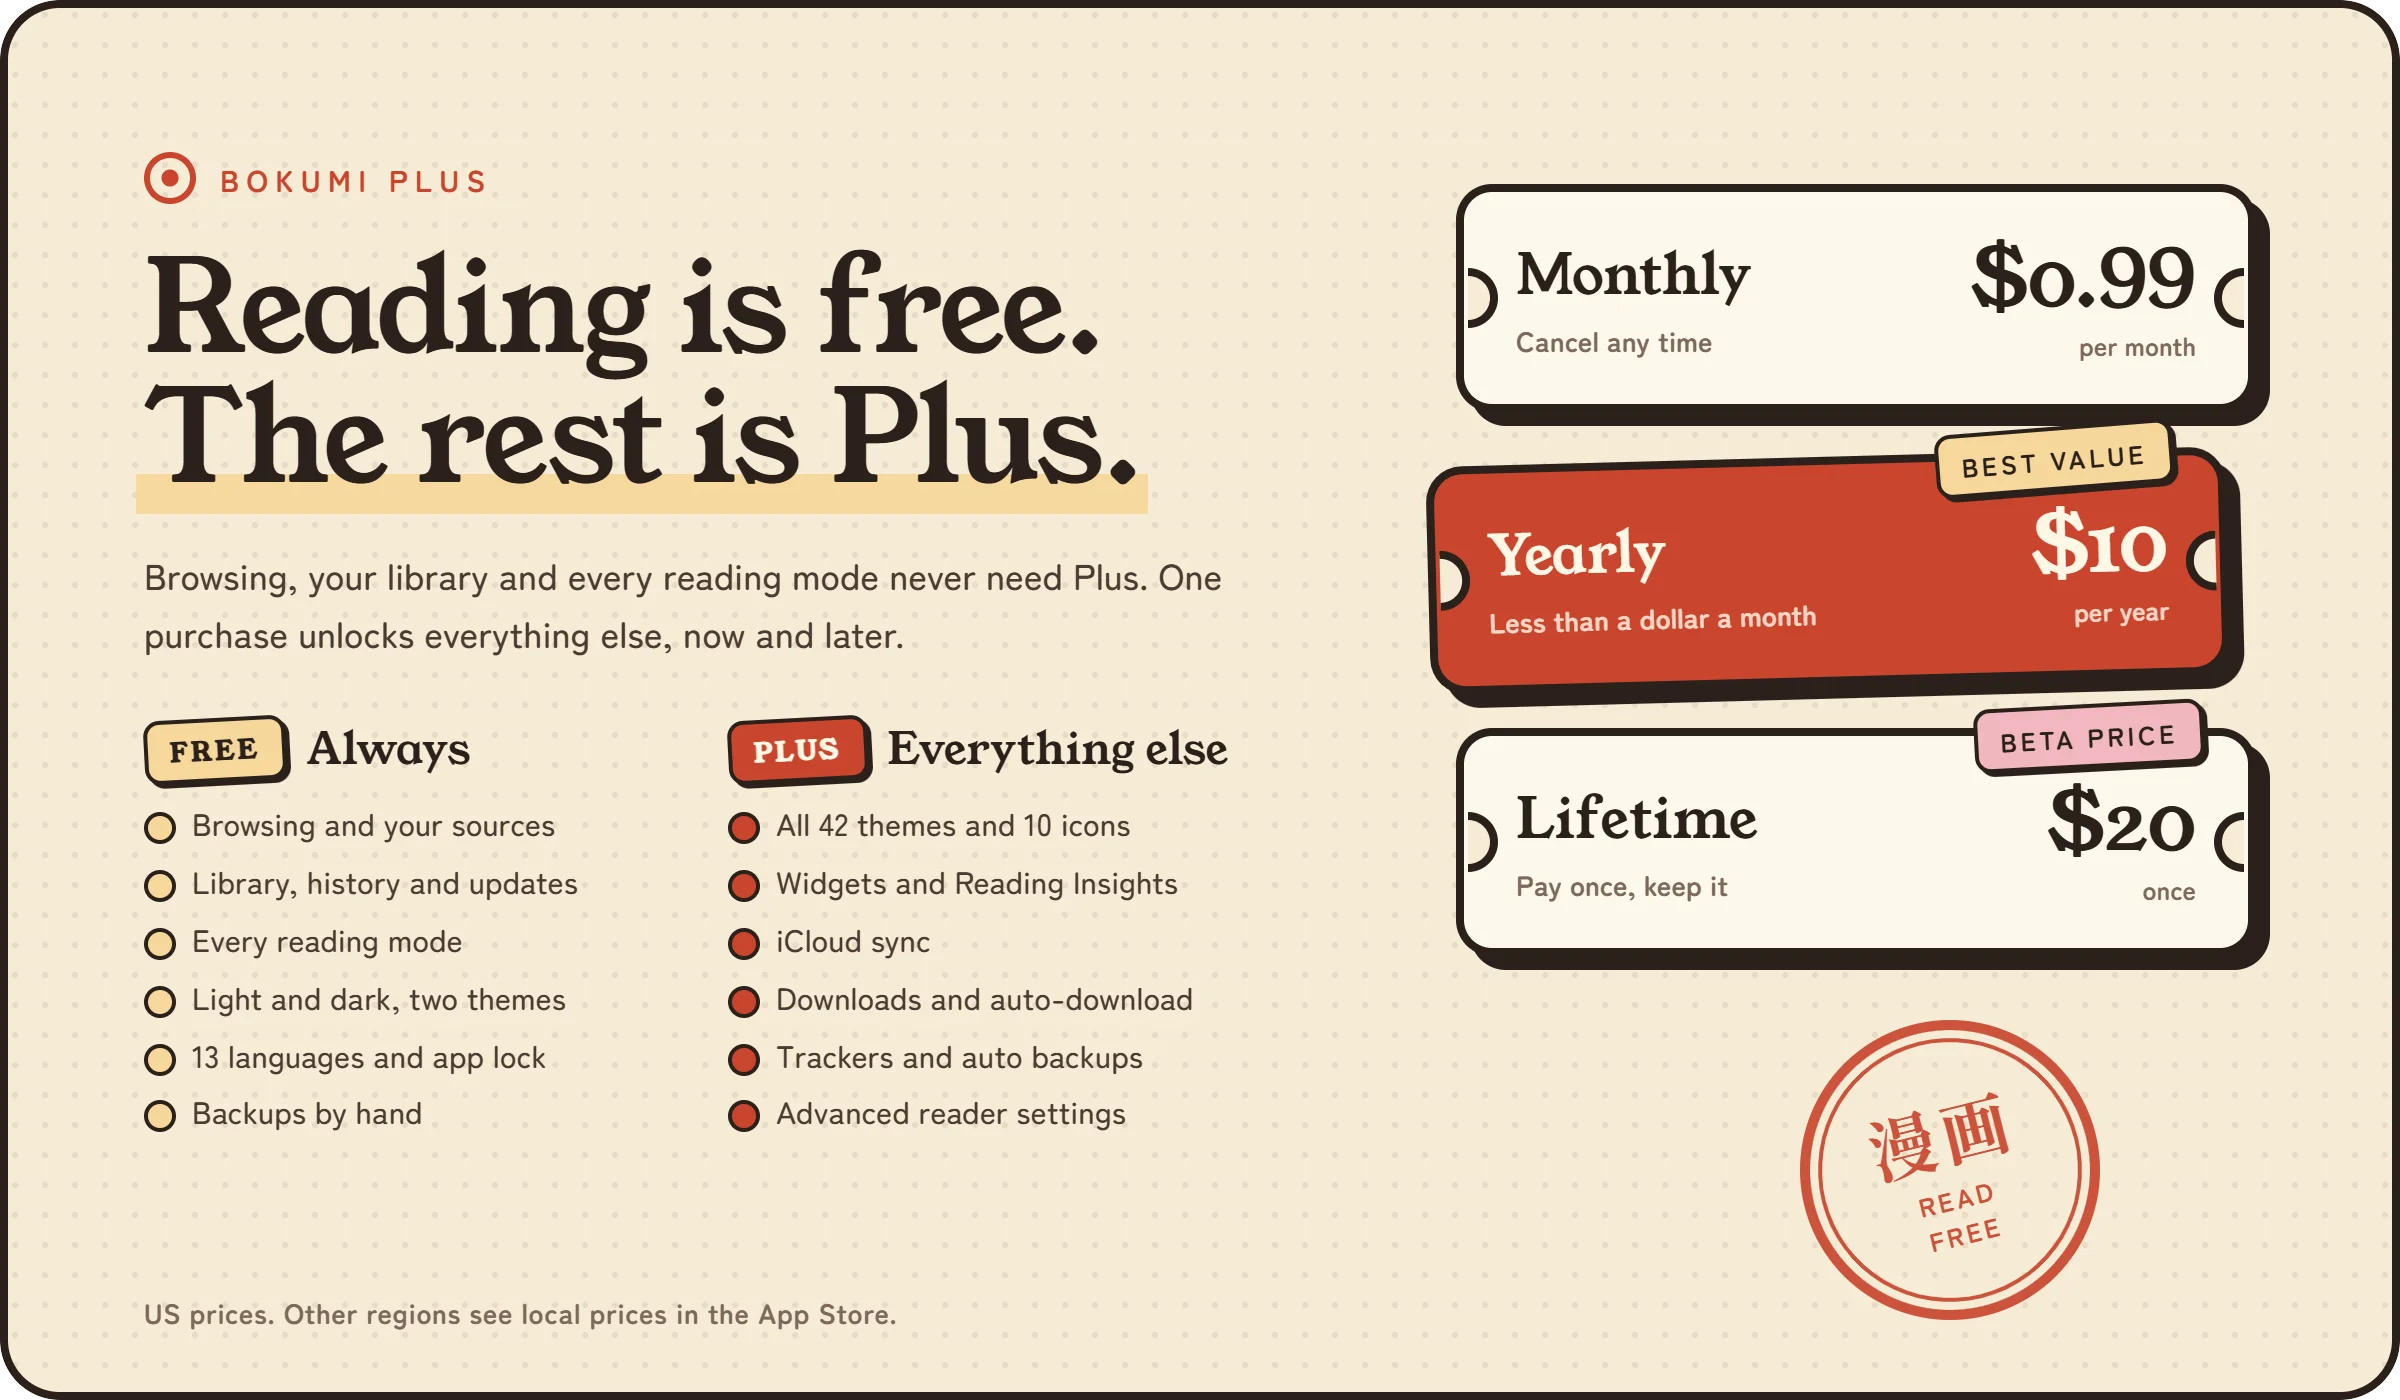
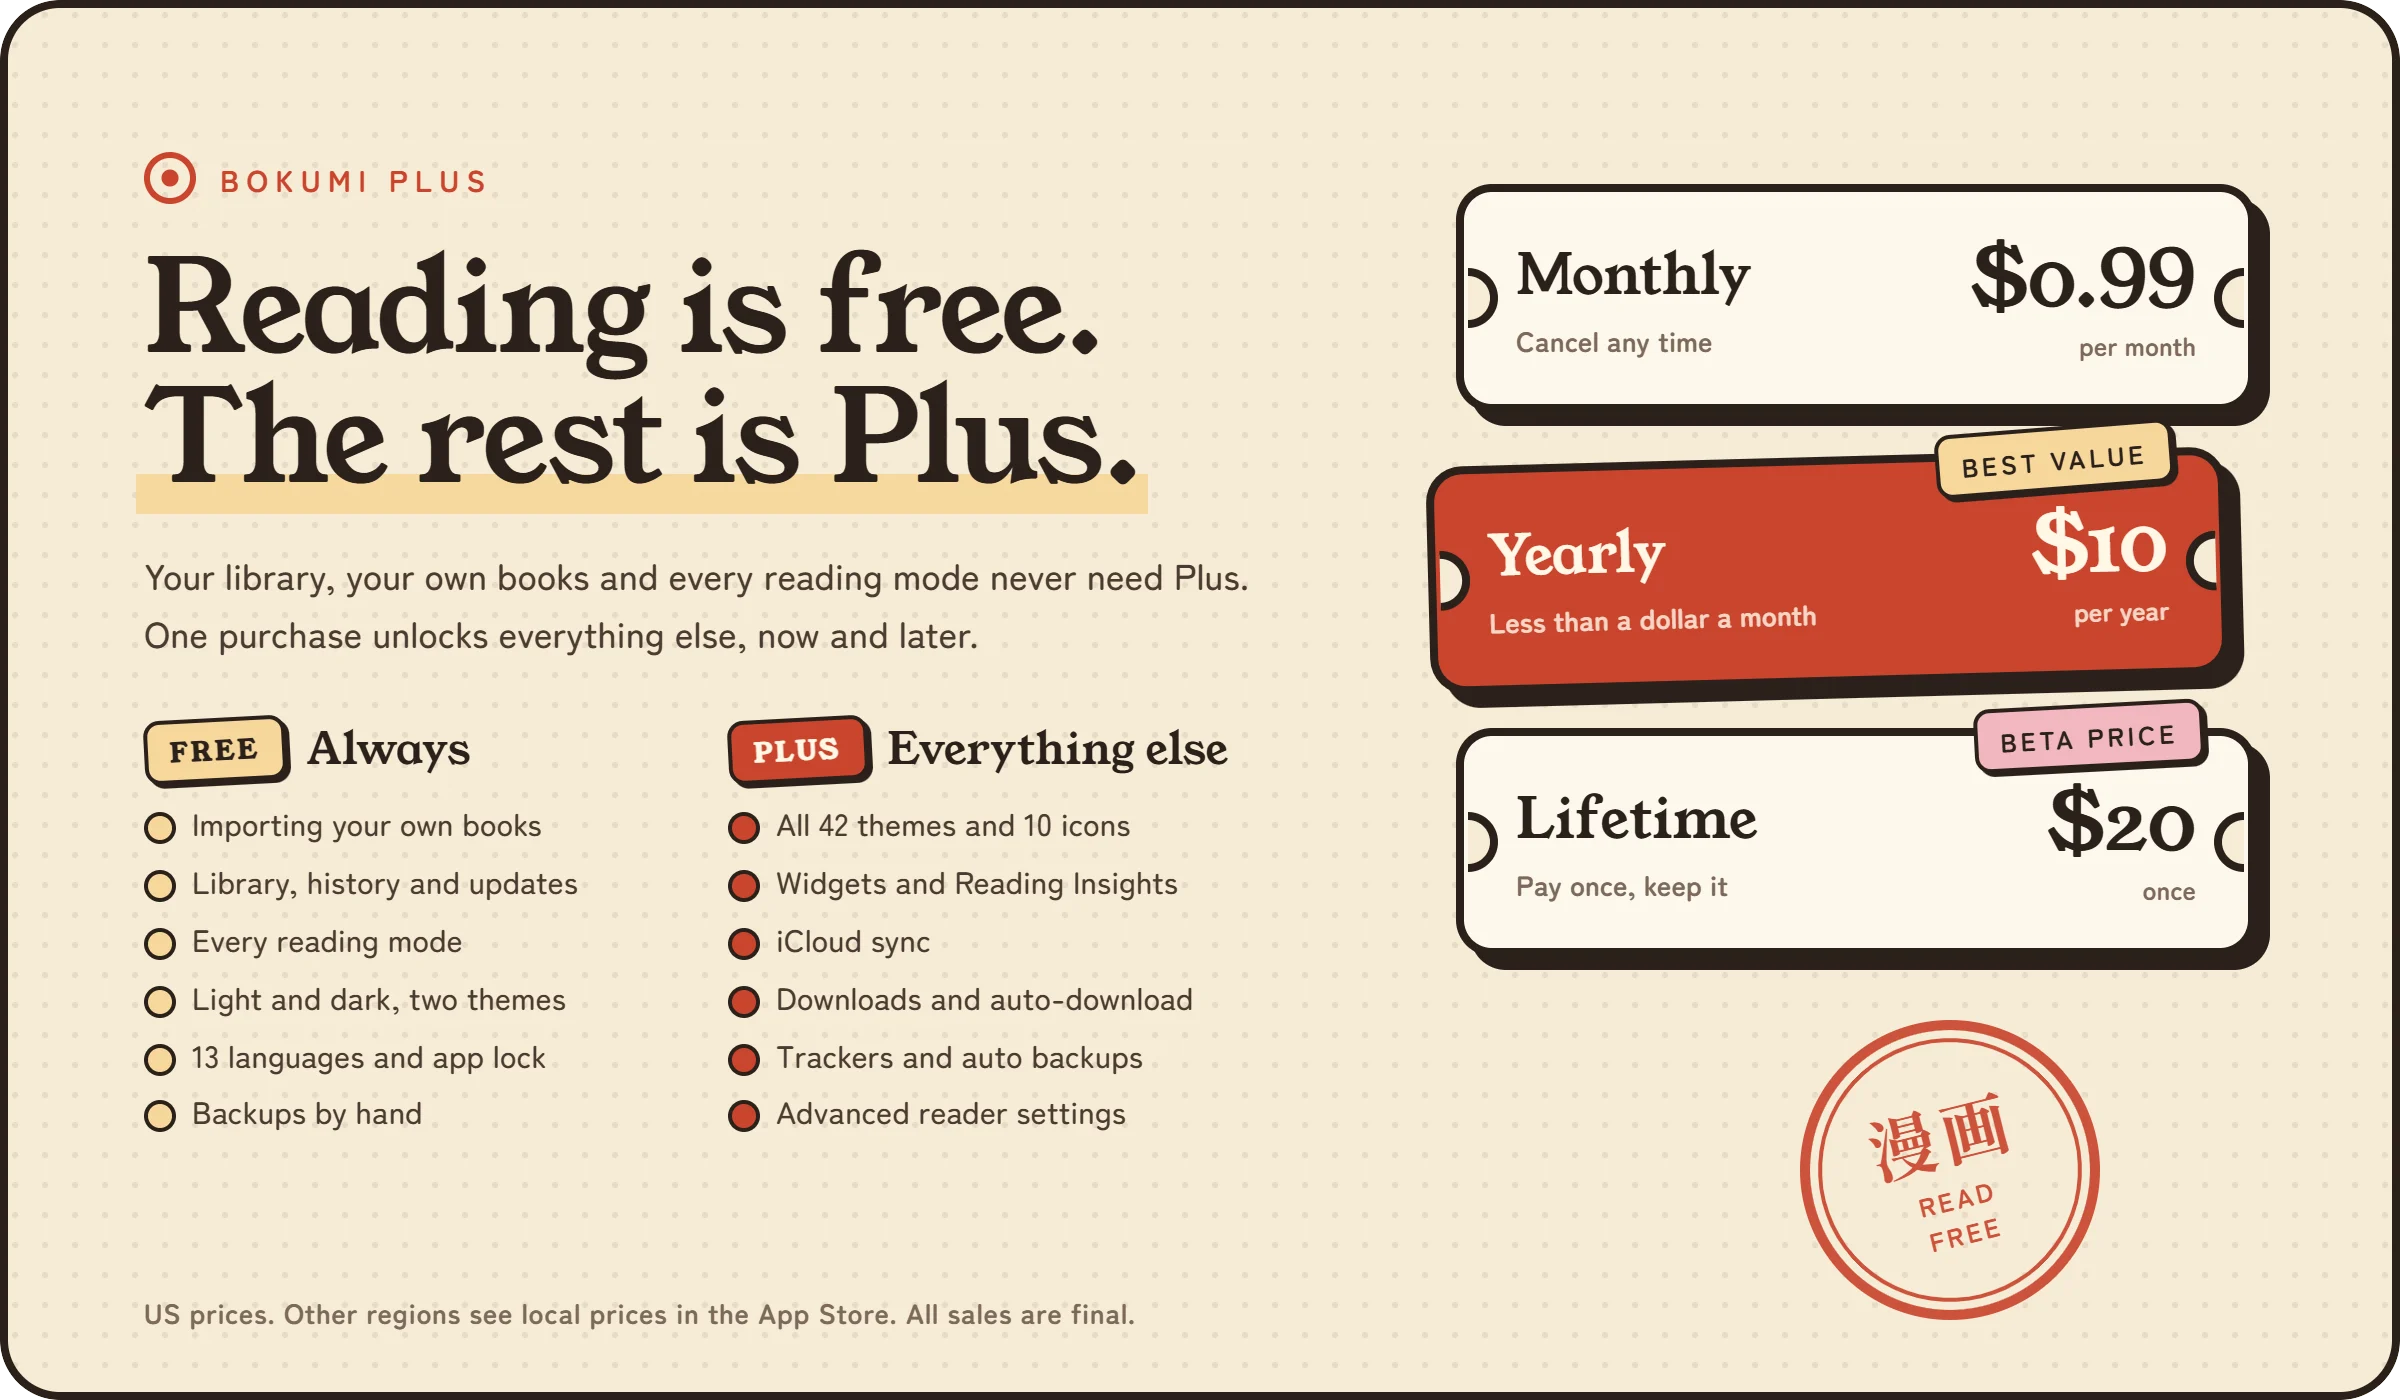
README: coming soon to iPhone, iPad and Android, with no APK download
The Android button and Releases links are gone, and both platforms read as
coming soon. The README also picks up the new art (bring your own books,
the fixed panels card, Plus with all sales final), drops other apps' names
and the trackers the iPhone app no longer has, and PRIVACY.md now
describes iCloud sync instead of a sync server.

Changed region(s): [[0.0625, 0.3993, 0.5312, 0.4607], [0.0938, 0.5836, 0.2188, 0.6143], [0.375, 0.9214, 0.4688, 0.9521]]

diff --git a/README.md b/README.md
@@ -5,16 +5,16 @@
 <p align="center">
   <img src=".github/readme/btn-appstore.png" height="58" alt="Coming soon to the App Store (iPhone, iPad, Mac)">
   &nbsp;
-  <a href="https://github.com/devCaspian-hash/Bokumi-App/releases/latest"><img src=".github/readme/btn-android.png" height="58" alt="Android developer preview: download the APK"></a>
+  <img src=".github/readme/btn-android.png" height="58" alt="Coming soon to Android">
 </p>
 
-<p align="center"><sub><b>In beta on TestFlight</b> · iOS 18 or later · reading is free · no ads · no analytics · no account</sub></p>
+<p align="center"><sub><b>Coming soon to iPhone, iPad and Android</b> · reading is free · no ads · no analytics · no account</sub></p>
 
 <p align="center"><img src=".github/readme/ticker.webp" width="100%" alt="Page-curl turns · Right to left · Webtoon · 42 themes · Widgets · iCloud sync · iPad & Mac"></p>
 
 <h3 align="center">A manga reader that treats the page like paper.</h3>
 
-<p align="center">Bokumi (ボクミ) is a cozy, premium reader for iPhone, iPad and Mac.<br>Pages curl when you turn them, manga reads from the right, webtoons scroll without a seam,<br>and your shelf, progress and settings follow you everywhere through your own iCloud.</p>
+<p align="center">Bokumi (ボクミ) is a cozy, premium reader for iPhone, iPad and Mac, with Android on the way.<br>Pages curl when you turn them, manga reads from the right, webtoons scroll without a seam,<br>and your shelf, progress and settings follow you everywhere through your own iCloud.</p>
 
 <br>
 
@@ -38,7 +38,11 @@
 
 <br><br>
 
-<img src=".github/readme/plus.webp" width="100%" alt="Bokumi Plus · Reading is free, the rest is Plus. Monthly $0.99, yearly $10, lifetime $20 (beta price).">
+<img src=".github/readme/yours.webp" width="100%" alt="Your shelf, your books · Bring your own books. Files you own (CBZ, ZIP, EPUB and folders of images), your server at home, and sources you set up yourself. Bokumi ships with no manga of its own.">
+
+<br><br>
+
+<img src=".github/readme/plus.webp" width="100%" alt="Bokumi Plus · Reading is free, the rest is Plus. Monthly $0.99, yearly $10, lifetime $20 (beta price). All sales are final.">
 
 <br><br>
 
@@ -54,8 +58,8 @@
 | 🍃 **Page curl** | Swipe and the page lifts, curls and settles. On iPad and Mac you get the open spread, spine and all. |
 | 🐈⬛ **Cozy, not cluttered** | Covers first, a calm poster-style series page, and a Continue button that opens the book straight away. |
 | 🎨 **42 themes, 11 icons** | Six collections that tint the whole app, tinted text, pure black for OLED, Liquid Glass on iOS 26. |
-| 🧩 **Your sources** | Add the extension repositories you already trust, including Mihon/Tachiyomi ones, which run on the iPhone itself. Bokumi ships with none. |
-| ☁ **Everywhere** | iCloud sync with no sign-in, Home Screen widgets, offline downloads, AniList / MyAnimeList / MangaUpdates / Kitsu / Shikimori / Bangumi. |
+| 📂 **Bring your own** | CBZ, ZIP, EPUB and folders of images from the Files app, a media server you run at home, or extensions you trust or write yourself. Bokumi ships with no content and no sources. |
+| ☁ **Everywhere** | iCloud sync with no sign-in, Home Screen widgets, offline downloads, AniList / MyAnimeList / MangaUpdates / Kitsu. |
 | 🔒 **Yours** | No ads, no analytics, no account. App lock, an incognito switch, and tracker tokens kept in the Keychain. |
 
 <br>
@@ -71,24 +75,25 @@
 
 | | |
 |:--|:--|
-| **iPhone · iPad · Mac** | In beta on **TestFlight** now; the App Store release is next. iOS 18 or later, Macs with Apple silicon through "Designed for iPad". |
-| **Android** | An early developer preview: download **`Bokumi-…-android.apk`** from **[Releases](https://github.com/devCaspian-hash/Bokumi-App/releases/latest)** (Android 11 or newer) and allow installs from your browser or file manager. The Android app is behind the iPhone app. |
-| **Your sources** | Browse → ⋯ → **Extension repositories** → paste the link to a repository you trust, then pick what to install under **Extensions**. |
-| **Bokumi Plus** | $0.99 / month, $10 / year or $20 lifetime (beta price). Reading stays free. |
+| **iPhone · iPad · Mac** | **Coming soon** to the App Store. iOS 18 or later, and Macs with Apple silicon through "Designed for iPad". |
+| **Android** | **Coming soon.** Not available yet, and there is no official Android download right now. |
+| **Your books** | Import CBZ, ZIP, picture-based EPUB or a folder of images from the Files app. A folder becomes a series, and every volume inside it a chapter. |
+| **Your own sources** | Install an extension from a file or from a repository you trust, or write your own. Only add sources you are allowed to read from. |
+| **Bokumi Plus** | $0.99 / month, $10 / year or $20 lifetime (beta price). Reading and importing your own books stay free. Purchases go through Apple, and all sales are final. |
 
 ## ✦ FAQ
 
-<details><summary><b>Is Bokumi free?</b></summary><br>Reading is free, with no ads: browsing and installing sources, your library, history and updates, every reading mode, light and dark mode and app lock. Bokumi Plus unlocks the rest: the other themes and app icons, widgets, offline downloads, iCloud sync, trackers, automatic backups, extra reader options and Cloudflare checks that pass in the background. If Plus lapses, nothing is deleted.</details>
+<details><summary><b>When can I get Bokumi?</b></summary><br>Soon. Bokumi is coming to the App Store for iPhone, iPad and Mac, and to Android. Neither is available yet.</details>
 
-<details><summary><b>Does Bokumi come with manga?</b></summary><br>No. Bokumi is a reader. You add sources you are allowed to use: extensions from repositories you choose, your own Komga or Kavita server, or your own CBZ/ZIP/EPUB files.</details>
+<details><summary><b>Is Bokumi free?</b></summary><br>Reading is free, with no ads: your library, history and updates, every reading mode, importing your own books, light and dark mode and app lock. Bokumi Plus unlocks the rest: the other themes and app icons, widgets, offline downloads, iCloud sync, trackers, automatic backups and extra reader options. Plus unlocks app features, never content. If Plus lapses, nothing is deleted. All sales are final; refunds are handled by Apple.</details>
 
-<details><summary><b>Can I move over from Mihon or Tachiyomi?</b></summary><br>Yes. Import your <code>.tachibk</code> backup under More → Backup &amp; Restore, and add the same extension repositories. Mihon/Tachiyomi extensions run inside Bokumi, on Android and on the iPhone itself.</details>
+<details><summary><b>Does Bokumi come with manga?</b></summary><br>No. Bokumi is a reader. Bring what you own or have the right to read: your own CBZ, ZIP and EPUB files, a media server you run at home, or a source you set up yourself. Bokumi does not condone piracy.</details>
+
+<details><summary><b>Can I bring my library from another reader app?</b></summary><br>Yes. Make a backup in the other app, then restore it in Bokumi under More → Backup &amp; restore. Your series, progress, categories, history and trackers come along, and restoring never deletes anything.</details>
 
 <details><summary><b>What does Bokumi know about me?</b></summary><br>Nothing leaves your device unless you turn something on: iCloud sync goes to your own private iCloud, and a tracker only hears from Bokumi after you log in to it. There is no analytics and no account. See <a href="PRIVACY.md">PRIVACY.md</a>.</details>
 
-<details><summary><b>Are extensions safe?</b></summary><br>Bokumi checks that every APK extension is signed by the repository's key and asks you to trust that repository. Like in Mihon, extensions run with the app's permissions, so only install extensions you trust.</details>
-
-<details><summary><b>How do I join the beta?</b></summary><br>The iPhone and iPad app is in beta on TestFlight; the App Store release is next. On Android, the developer preview APK is on the <a href="https://github.com/devCaspian-hash/Bokumi-App/releases/latest">Releases page</a>. Back up your library (More → Backup &amp; Restore) before updating a beta.</details>
+<details><summary><b>Are extensions safe?</b></summary><br>Each extension runs in its own sandbox. Before you install one, Bokumi shows which web addresses it may contact, and it can't reach anything else. Extensions never see your iCloud, your sync data or your tracker logins. Still, only add extensions you trust.</details>
 
 <details>
 <summary><b>✦ Brand</b></summary>
@@ -107,4 +112,4 @@ The app's default theme accent is lavender `#D4A6FA`.
 
 <p align="center"><img src=".github/readme/footer.webp" width="100%" alt="Bokumi ボクミ · Ready when you are. A cozy reader for iPhone and iPad. Free to read, with Plus when you want the rest."></p>
 
-<p align="center"><sub>Bokumi ships no manga and no sources. Add only content you are allowed to read. The README art uses real iPhone and iPad screenshots with public-domain and CC BY covers (<a href="COVER-CREDITS.md">credits</a>). Open-source components: <a href="THIRD-PARTY-NOTICES.md">THIRD-PARTY-NOTICES.md</a>. Bokumi is not affiliated with Mihon, Tachiyomi, Suwayomi or any tracking service.</sub></p>
+<p align="center"><sub>Bokumi is a reader. It ships no manga, no comics and no sources, and it does not condone piracy: read only what you own or have the right to read. The README art uses real iPhone and iPad screenshots with public-domain and CC BY covers (<a href="COVER-CREDITS.md">credits</a>). Open-source components: <a href="THIRD-PARTY-NOTICES.md">THIRD-PARTY-NOTICES.md</a>. Bokumi is not affiliated with any publisher, content provider or tracking service.</sub></p>

diff --git a/PRIVACY.md b/PRIVACY.md
@@ -1,18 +1,19 @@
 # Bokumi privacy
 
-**Short version:** Bokumi has no ads and no analytics. Your library stays on your device unless you choose otherwise.
+**Short version:** Bokumi has no ads, no analytics and no account. Your library stays on your device unless you turn on iCloud sync, and then it goes to your own private iCloud, not to us.
 
 ### What stays on your device
-Your library, categories, reading progress, history, downloads, backups and settings. Passwords and tokens for trackers and servers are stored in the system's secure storage (Android Keystore / iOS Keychain) and are never included in backups.
+Your library, categories, reading progress, bookmarks, history, downloads, the files you import, backups and settings. Passwords and tokens for trackers and servers are stored in the iOS Keychain and are never included in backups or sync.
 
 ### When Bokumi talks to the internet
 Only when you use something that needs it:
-- **Extensions and servers you add** contact the websites or servers they were made for. Bokumi does not add your account information to those requests.
-- **Trackers** (AniList, MyAnimeList, MangaUpdates, Kitsu, Shikimori, Bangumi) are contacted only after you log in, to update your reading lists.
-- **Sync** sends your library and progress to a sync server **you** choose, and only if you sign in to one.
+- **Extensions and servers you add** contact the websites or servers they were made for, and only the addresses they showed you before you installed them. Bokumi does not add your account information to those requests, and extensions never see your iCloud, sync data or tracker logins.
+- **Trackers** (AniList, MyAnimeList, MangaUpdates, Kitsu) are contacted only after you log in, to update your reading lists.
+- **iCloud sync** (Bokumi Plus) keeps your library, progress and settings in the private database of your own iCloud account. We can't see it.
+- **Apple** handles purchases, subscriptions and iCloud under Apple's privacy policy. We never see your payment details.
 
 ### What Bokumi does not do
-No analytics, no advertising identifiers, no crash reporters that phone home, no selling or sharing of data.
+No analytics, no advertising identifiers, no crash reporters that phone home, no accounts, and no selling or sharing of data.
 
 ### Deleting your data
-Uninstalling Bokumi removes everything on the device. If you used sync, you can delete your account and all synced data from More → Sync.
+Deleting Bokumi removes everything on the device. If you used sync, remove Bokumi's data in Settings → your name → iCloud → Manage Storage.

diff --git a/THIRD-PARTY-NOTICES.md b/THIRD-PARTY-NOTICES.md
@@ -1,6 +1,6 @@
 # Third-party notices
 
-The Bokumi Android app includes the open-source components below. Each one remains under its own license.
+The Bokumi Android app (in development, not released yet) includes the open-source components below. Each one remains under its own license.
 
 ## Apache License 2.0
 https://www.apache.org/licenses/LICENSE-2.0
